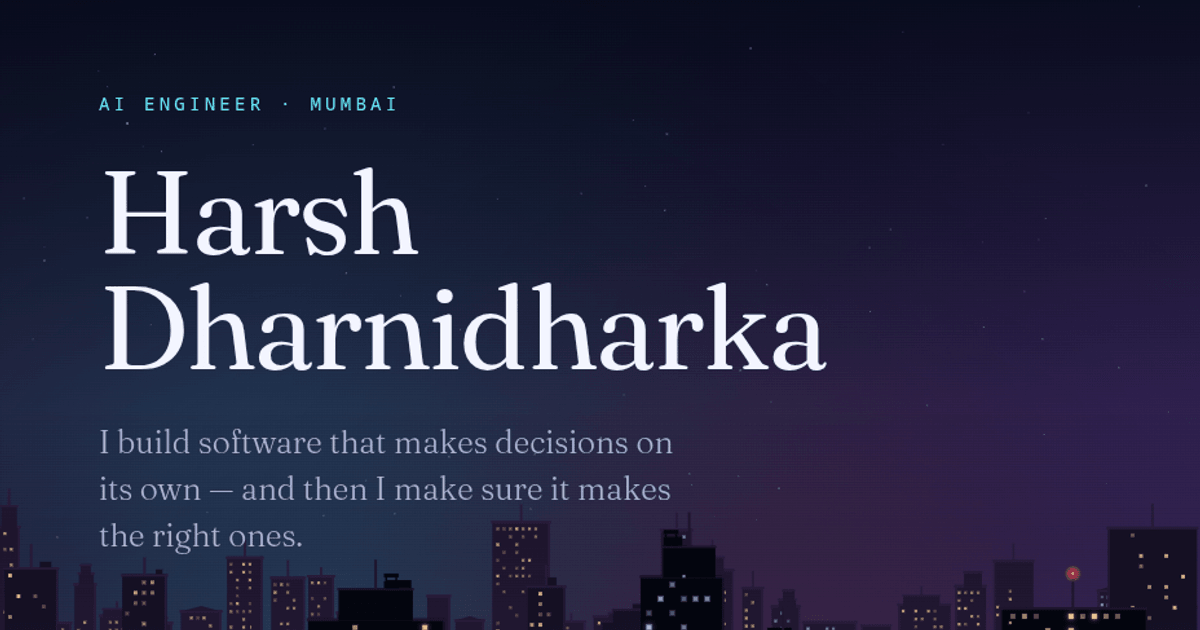
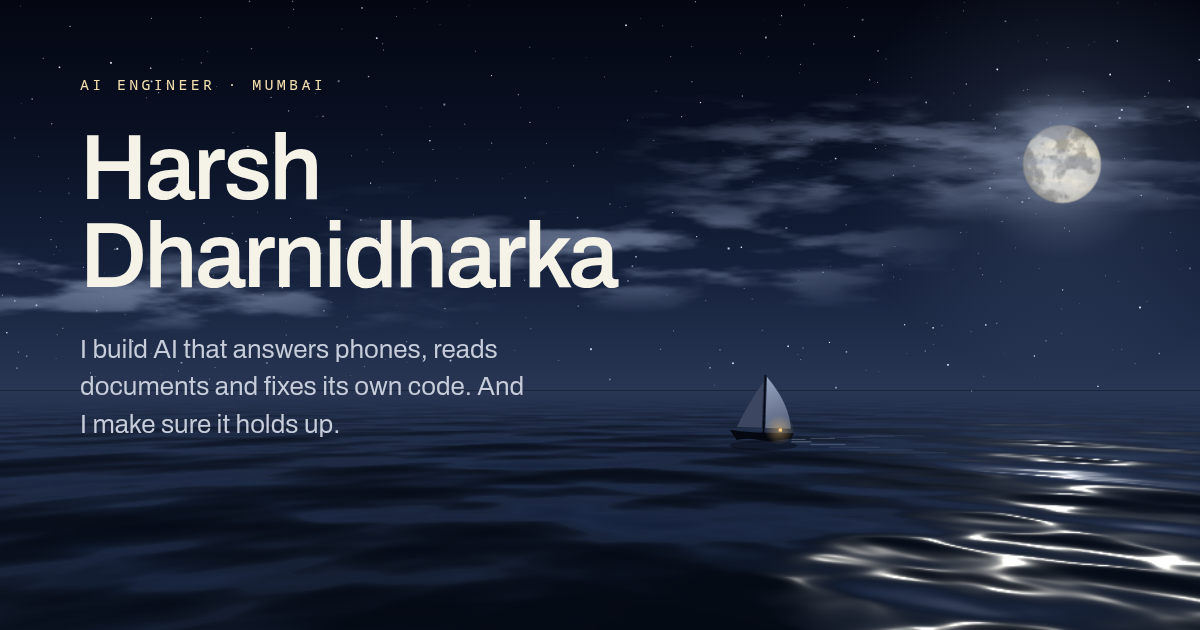
Clean up: drop unused font and code, refresh docs and the share image
Removes Fraunces and an unused noise helper. The share card now shows the
real sea, captured from the build. NEEDS-INPUT and README match the site.

diff --git a/src/styles/tokens.css b/src/styles/tokens.css
@@ -5,8 +5,7 @@
 
 :root {
   /* --- Type ----------------------------------------------------
-     Fraunces carries voice; Archivo carries information. */
-  --font-display: 'Fraunces Variable', 'Fraunces', Georgia, serif;
+     Archivo throughout; --font-display is set with the colours below. */
   --font-body:    'Archivo Variable', 'Archivo', system-ui, sans-serif;
   --font-mono:    ui-monospace, 'SF Mono', Menlo, monospace;
 
@@ -23,11 +22,6 @@
   --leading-tight: 1.05;
   --leading-snug:  1.25;
   --leading-body:  1.6;
-
-  /* Fraunces optical size. Kept well below the 144 maximum: the high
-     end thins horizontal strokes until capitals lose their crossbars. */
-  --opsz-display: 44;
-  --opsz-text:    14;
 
   /* --- Space ---------------------------------------------------
      A 4px-rooted scale. Section rhythm is fluid so phone layouts

diff --git a/src/styles/fonts.css b/src/styles/fonts.css
@@ -1,8 +1,2 @@
-/* Self-hosted variable fonts. No third-party request, no layout shift.
-
-   Fraunces is loaded from `full.css` rather than a single-axis file:
-   the opsz-only build ignores `wght`, which leaves display sizes at
-   a contrast so high the crossbar of a capital H disappears. */
-@import '@fontsource-variable/fraunces/full.css';
-@import '@fontsource-variable/fraunces/full-italic.css';
+/* Self-hosted variable font. No third-party request, no layout shift. */
 @import '@fontsource-variable/archivo/wght.css';

diff --git a/src/components/stage/Contact.svelte b/src/components/stage/Contact.svelte
@@ -20,7 +20,7 @@
   h2 {
     margin-top: var(--s-4);
     font-size: clamp(2.25rem, 4.6vw + 1rem, 5.25rem);
-    font-variation-settings: 'opsz' 72, 'wght' 440, 'WONK' 1;
+    font-variation-settings: 'wght' 440;
     line-height: 0.98;
     letter-spacing: -0.03em;
     max-width: 14ch;

diff --git a/src/styles/base.css b/src/styles/base.css
@@ -29,7 +29,7 @@ body {
 
 h1, h2, h3, h4 {
   font-family: var(--font-display);
-  font-variation-settings: 'opsz' var(--opsz-display), 'wght' 400, 'SOFT' 0;
+  font-variation-settings: 'wght' 400;
   line-height: var(--leading-tight);
   letter-spacing: -0.015em;
   text-wrap: balance;

diff --git a/src/components/stage/Hero.svelte b/src/components/stage/Hero.svelte
@@ -199,7 +199,7 @@
     max-width: 30ch;
     font-family: var(--font-display);
     font-size: var(--t-xl);
-    font-variation-settings: 'opsz' 28, 'wght' 380;
+    font-variation-settings: 'wght' 380;
     line-height: 1.3;
     color: var(--ink-soft);
   }

diff --git a/NEEDS-INPUT.md b/NEEDS-INPUT.md
@@ -9,20 +9,18 @@ gap; each one renders as a marked box on the page.
 
 Done: the About copy was written from your own answers on 2026-11-03.
 
-## 2. One file to drop in
+## 2. Check these are yours
 
-(The photo was removed from the site on 2026-11-03, on your call.)
-
-## 3. Check these are yours
-
-- **The hero line:** *"I build software that makes decisions on its own — and
-  then I make sure it makes the right ones."* It's also on the share card.
+- **The hero line:** *"I build AI that answers phones, reads documents and fixes
+  its own code. And I make sure it holds up."* It's also on the share card.
+- **The About copy:** "On paper, I was headed for balance sheets" and "By 2023
+  the habit had won" are inferred from your resume, not your words.
+- **The skills map:** the Voice cluster comes from your clinic project, not your
+  resume. The grouping is hand-made, so don't describe it as real embeddings.
 - **"Open to work"** on the first screen (`status` in `src/lib/links.ts`).
   Remove it once you've got a job.
-- **`working-with-me.md`** and its folded "What I'm still working on" section:
-  I wrote your weaknesses. If you wouldn't say it in an interview, cut it.
 
-## 4. Before deploying
+## 3. Before deploying
 
 - **The domain:** `site:` in `astro.config.mjs`. Sitemap, robots.txt, canonical
   URLs and share tags all read it.
@@ -35,3 +33,11 @@ Done: the About copy was written from your own answers on 2026-11-03.
 - No metrics anywhere, on your instruction.
 - Project detail lives on GitHub, not on the site (2026-09-28).
 - Open to relocating, written into `Contact.svelte`.
+- Single page, no photo, no karate (2026-11-03).
+
+## Later
+
+- The sea adapts to the visitor's real time of day. All colours are in `NIGHT` in
+  `src/lib/scene/sea.ts`.
+- `src/content/knowledge/` non-project files and `src/lib/brain/` aren't shown on
+  the site. They are kept for a possible AI agent; delete them if that's dropped.

diff --git a/README.md b/README.md
@@ -62,14 +62,17 @@ whole section shouldn't require touching anything else.
 generated from the real fonts and the real page rather than drawn by hand, so
 it can be remade whenever the copy changes:
 
-1. `npm run build && npx serve dist` (or any static server).
-2. Open `/og-card/`. It sizes itself to your window and reports the exact region
-   to capture in the `data-capture` attribute on `#og`.
-3. Screenshot that region from the top-left corner.
-4. Scale it to 1200×630 and save it over `public/og.png`.
+Capture it from the build, because the dev server would add its toolbar:
 
-On a window at least 1200×700 the card renders at 1:1 and step 3 needs no
-scaling.
+```
+npm run build
+python3 -m http.server 4329 -d dist &
+google-chrome --headless --no-sandbox --enable-unsafe-swiftshader --hide-scrollbars \
+  --window-size=1200,630 --virtual-time-budget=6000 \
+  --screenshot=public/og.png http://localhost:4329/og-card/
+```
+
+The card shows the real sea scene behind the name and tagline.
 
 ## Motion
 
